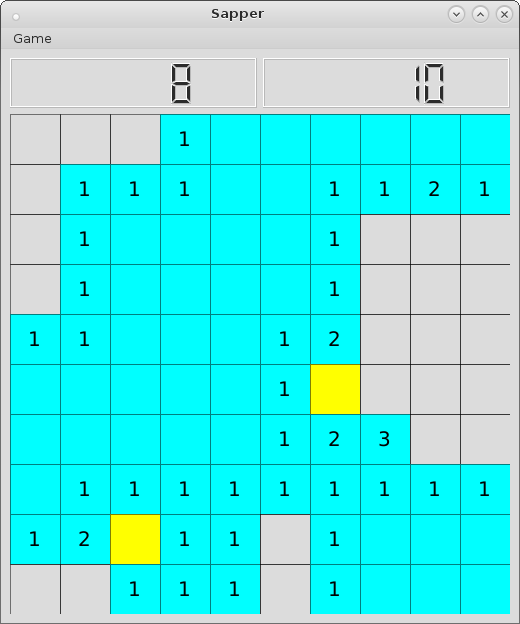
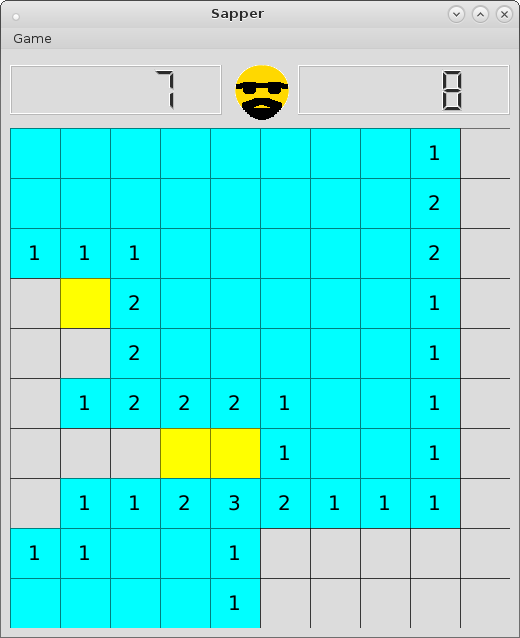
Smiles added

diff --git a/src/SapperWidget.cpp b/src/SapperWidget.cpp
@@ -4,6 +4,8 @@
 #include <QMenu>
 #include <QAction>
 
+#include <QPixmap>
+
 #include <QTimer>
 
 #include <QVBoxLayout>
@@ -41,6 +43,14 @@ SapperWidget::SapperWidget(Sapper * sapper, QWidget *parent) :
                 flagsEstimationLcd->setFixedHeight(50);
             }
             {
+                smileLabel = new QLabel;
+                QPixmap picture(":/icons/icons/smile-template.png");
+                smileLabel->setPixmap(picture);
+                smileLabel->setFixedSize(QSize(picture.width(),
+                                               picture.height()));
+                heapLayout->addWidget(smileLabel);
+            }
+            {
                 timerLcd = new QLCDNumber;
                 heapLayout->addWidget(timerLcd);
                 timerLcd->setFixedHeight(50);
@@ -59,6 +69,10 @@ SapperWidget::SapperWidget(Sapper * sapper, QWidget *parent) :
 void SapperWidget::bombed()
 {
     QMessageBox::critical(0, "You lose", "You lose");
+    QPixmap picture(":/icons/icons/smile-sad.png");
+    smileLabel->setPixmap(picture);
+    smileLabel->setFixedSize(QSize(picture.width(),
+                                   picture.height()));
 }
 
 void SapperWidget::win()
@@ -66,10 +80,23 @@ void SapperWidget::win()
     QMessageBox::about(0, "You win!", "You win!");
     ChampionsTable table("Ilya Yunkin", "Sapper", 5, false);
     table.setResult(sapper->getTimeSeconds());
+
+    QPixmap picture(":/icons/icons/smile-happy.png");
+    smileLabel->setPixmap(picture);
+    smileLabel->setFixedSize(QSize(picture.width(),
+                                   picture.height()));
 }
 
 void SapperWidget::update()
 {
     flagsEstimationLcd->display(sapper->getEstimatedFlags());
     timerLcd->display(sapper->getTimeSeconds());
+}
+
+void SapperWidget::restartSlot()
+{
+    QPixmap picture(":/icons/icons/smile-template.png");
+    smileLabel->setPixmap(picture);
+    smileLabel->setFixedSize(QSize(picture.width(),
+                                   picture.height()));
 }

diff --git a/src/SapperWidget.h b/src/SapperWidget.h
@@ -3,6 +3,7 @@
 
 #include <QMainWindow>
 #include <QLCDNumber>
+#include <QLabel>
 
 #include "Sapper.h"
 
@@ -14,6 +15,7 @@ class SapperWidget : public QMainWindow
     long timeSeconds;
     QLCDNumber *flagsEstimationLcd;
     QLCDNumber *timerLcd;
+    QLabel *smileLabel;
 
 public:
     explicit SapperWidget(Sapper *sapper, QWidget *parent = 0);
@@ -27,6 +29,7 @@ private slots:
     void win();
 
     void update();
+    void restartSlot();
 };
 
 #endif // SAPPERWIDGET_H

diff --git a/README.md b/README.md
@@ -5,3 +5,4 @@ Classical Minesweeper game.
 
 ![](https://github.com/ilyayunkin/Sapper/blob/master/Screenshots/Screenshot-Sapper.png)
 ![](https://github.com/ilyayunkin/Sapper/blob/master/Screenshots/Screenshot-Sapper-1.png)
+![](https://github.com/ilyayunkin/Sapper/blob/master/Screenshots/Screenshot-Sapper-2.png)
